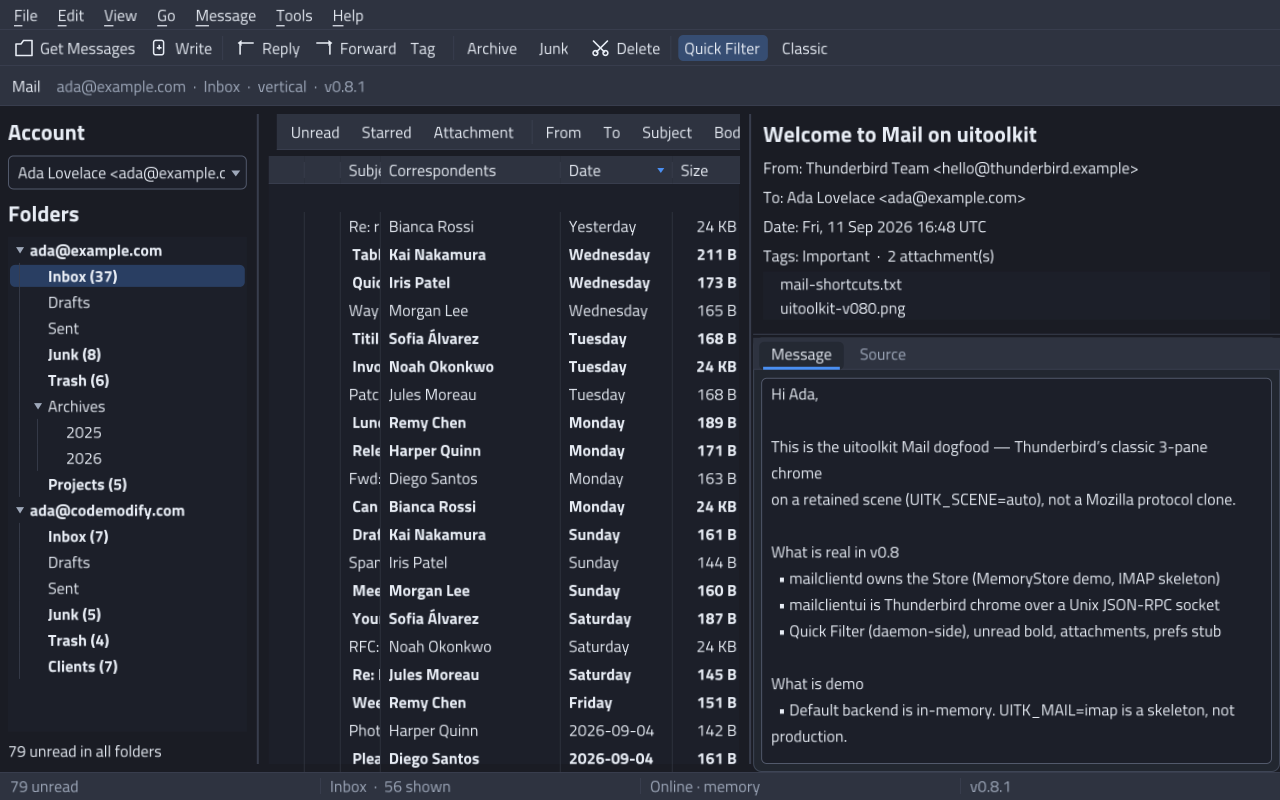
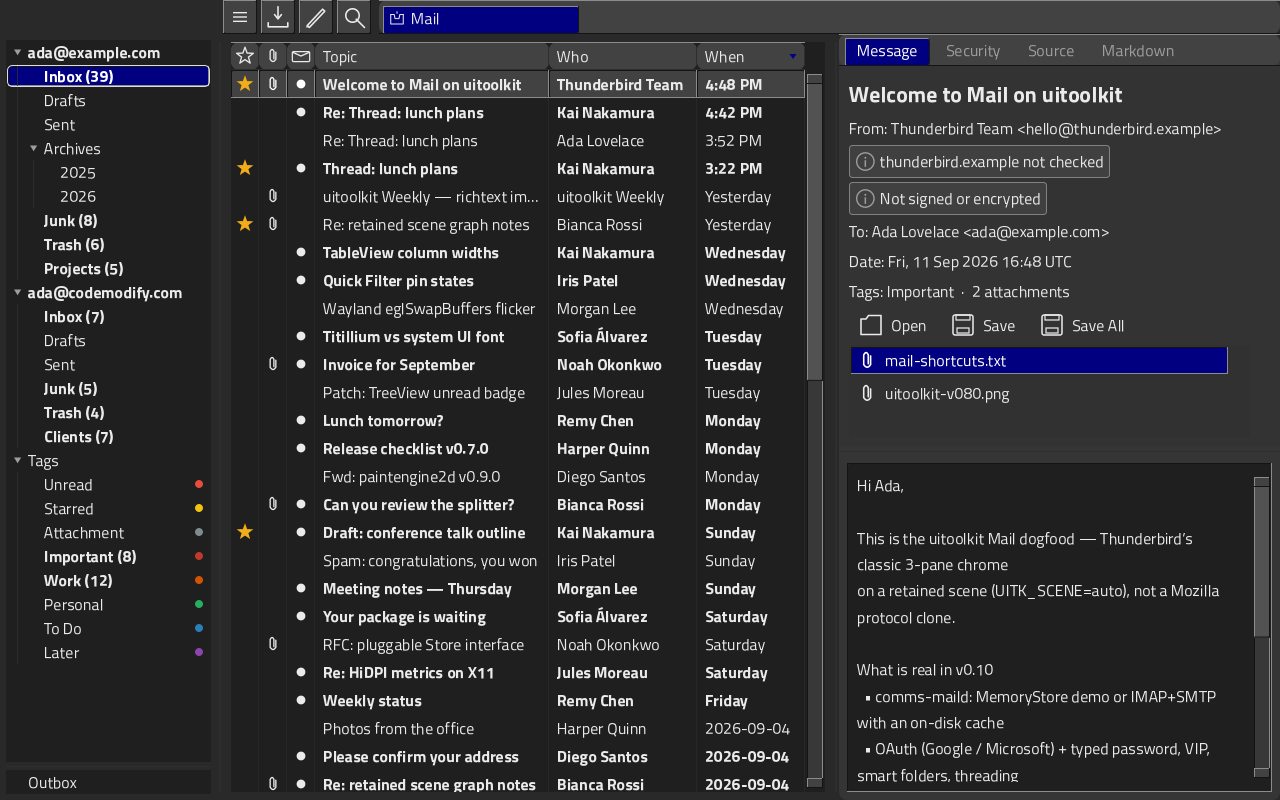
docs: the README's screenshot is the window as it is now

diff --git a/docs/mail.md b/docs/mail.md
@@ -1241,4 +1241,4 @@ UITK_SCENE=auto go run ./cmd/comms-mail
 go run ./cmd/comms-mail-demo -screenshot docs/screenshots
 ```
 
-Writes `mail-dark.png`, `mail-light.png`, `mail-classic.png`, `mail-compose.png`, `mail-prefs.png`, `mail-cards.png`, `mail-compact.png`, `mail-filters.png`, `mail-empty.png` (first-run dialog), `mail-account.png` (Add Account), `mail-smart.png` (daemon saved-search view; not a tree section), `mail-invite.png` (a meeting invitation's card).
+Writes `mail-dark.png`, `mail-light.png`, `mail-classic.png`, `mail-compose.png`, `mail-prefs.png`, `mail-cards.png`, `mail-compact.png`, `mail-filters.png`, `mail-empty.png` (first-run dialog), `mail-account.png` (Add Account), `mail-smart.png` (daemon saved-search view; not a tree section), `mail-invite.png` (a meeting invitation's card). The README shows `docs/screenshots/mail.png`, which is `mail-dark.png` from that set: copy it over to refresh it.
